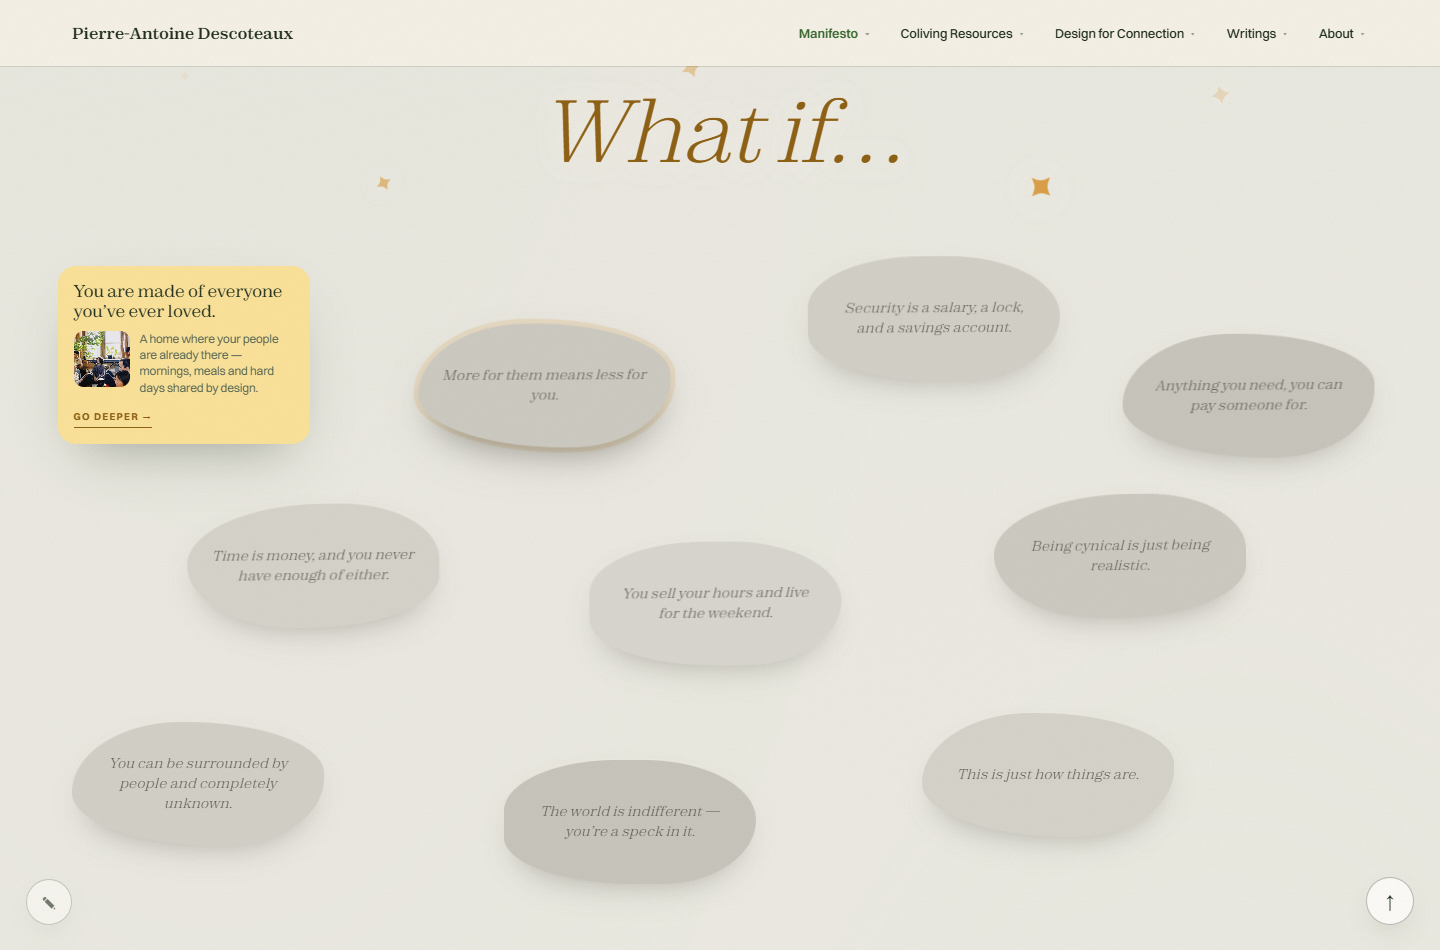
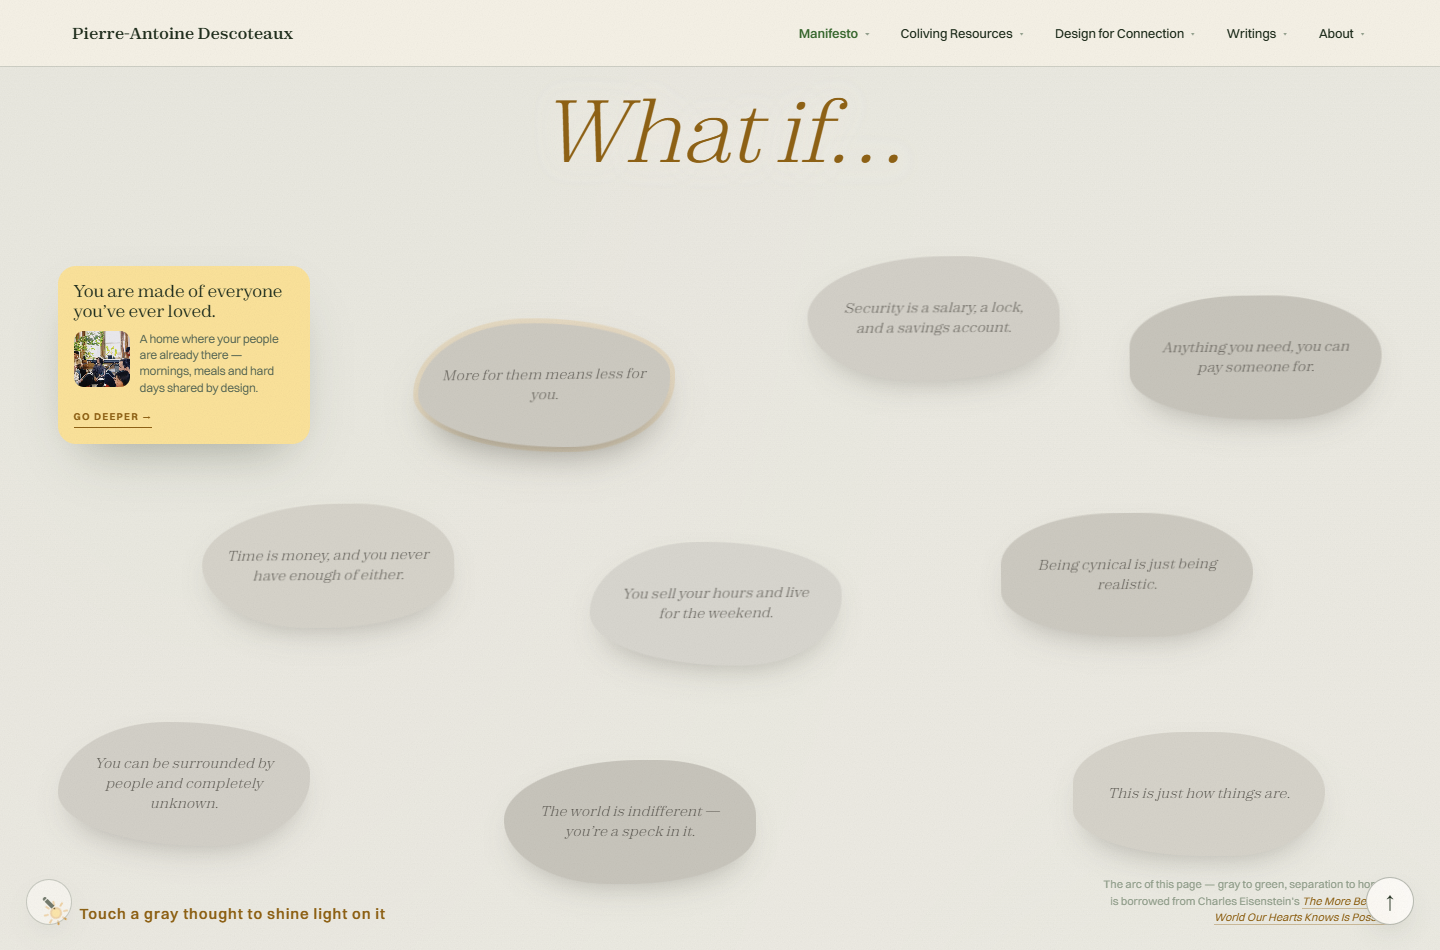
Round 25: field polish + laptop resize fixes
- gray thoughts: hover = shudder + slight brighten/gold glow (preview of the pop)
- heading-to-bubbles gap killed: What if is height:0 sticky (no reserved space), field top padding reduced -> heading + thoughts fit one screen
- What if now appears the moment the section heading scrolls away (.show, driven by heading rect), not on first pop
- pinned stage overlays: bigger prompt Touch a gray thought to shine light on it w/ spinning sun icon (bottom-left) + Eisenstein inspiration note w/ link (bottom-right); both ride the stage until the village section
- symmetric side padding: right-column spots positioned from the RIGHT edge (xr) -> equal outer margins on any width (verified 55/55 laptop, 58/58 desktop)
- laptop viewports (max-height 880): stage-wide size reductions so nothing stacks -> 0 overlaps gray AND open state at 1366x768 + 1440x950 (was the resize complaint); manifesto hero capped 62vh
- QA: diag-r25-laptop.js (overlap counter + padding symmetry) + full r24 regression green, 0 JS errors

Claude-Session: https://claude.ai/code/session_01Kgzbg39vN6twBKM8cWNnML

diff --git a/manifesto.html b/manifesto.html
@@ -50,11 +50,11 @@ a{color:inherit;text-decoration:none}
 .hero h1 em{font-style:italic;color:var(--gold-deep)}
 .hero .lede{font-size:clamp(1.05rem,1.4vw,1.25rem);color:var(--ink-soft);max-width:52ch;margin-bottom:clamp(30px,5vh,54px)}
 .hero .img{border-radius:var(--r);overflow:hidden;box-shadow:0 40px 90px -45px rgba(23,58,44,.55)}
-.hero .img img{width:100%;aspect-ratio:16/8;object-fit:cover}
+.hero .img img{width:100%;aspect-ratio:16/8;object-fit:cover;max-height:62vh}
 .hero .credit{margin-top:10px;font-size:.62rem;letter-spacing:.12em;text-transform:uppercase;color:var(--ink-faint)}
 
 /* ---------- GRAY FIELD ---------- */
-.field{position:relative;padding:clamp(60px,9vh,110px) 0 40px;--p:0}
+.field{position:relative;padding:clamp(26px,4vh,46px) 0 40px;--p:0}
 .field::before{content:"";position:absolute;inset:0;pointer-events:none;
   background:linear-gradient(180deg,#e8e6df 0%,#eceae2 55%,var(--paper) 100%);z-index:-2}
 .field::after{content:"";position:absolute;inset:0;pointer-events:none;z-index:-1;opacity:var(--p);transition:opacity 1.2s ease;
@@ -69,19 +69,32 @@ a{color:inherit;text-decoration:none}
 .field.lit .head .eyebrow{color:var(--green-deep)}
 .field.lit h2.status{color:var(--ink-faint);opacity:.55;font-size:clamp(1.2rem,2.4vw,1.9rem)}
 .field.lit .head .lede{color:var(--ink-soft)}
-.field .hint{margin-top:14px;font-size:.75rem;letter-spacing:.18em;text-transform:uppercase;color:#a09d94;transition:opacity .8s}
-.field.lit .hint{opacity:0}
+/* pinned stage overlays: the prompt (bottom-left) + the inspiration note
+   (bottom-right) ride with the stage until the village section */
+.stageprompt{position:absolute;left:clamp(16px,3vw,44px);bottom:clamp(14px,2.5vh,30px);z-index:20;
+  display:flex;align-items:center;gap:10px;font-size:clamp(.85rem,1.05vw,1rem);font-weight:600;
+  letter-spacing:.06em;color:var(--gold-deep);pointer-events:none}
+.stageprompt svg{flex:0 0 26px;animation:sunspin 14s linear infinite}
+@keyframes sunspin{to{transform:rotate(360deg)}}
+.stagenote{position:absolute;right:clamp(16px,3vw,44px);bottom:clamp(14px,2.5vh,30px);z-index:20;
+  max-width:min(300px,30vw);font-size:.7rem;line-height:1.5;color:var(--ink-faint);text-align:right}
+.stagenote a{color:var(--gold-deep);border-bottom:1px solid rgba(143,98,21,.35)}
+.stagenote a:hover{color:var(--ink)}
+@media(max-width:900px){.stageprompt,.stagenote{display:none}}
 
-/* spark title — STICKY: follows the reader through the whole gray field */
+/* spark title — STICKY, and HEIGHT 0 so it reserves no gap between the
+   section heading and the thoughts. Appears the moment the heading
+   scrolls away (.show), not on first pop. */
 .whatif{position:sticky;top:86px;z-index:15;pointer-events:none;display:block;text-align:center;
+  height:0;overflow:visible;
   font-family:var(--serif);font-style:italic;font-weight:300;
   font-size:clamp(2.6rem,6.5vw,5.5rem);line-height:1;color:var(--gold-deep);letter-spacing:-.02em;
-  margin:clamp(12px,2.5vh,26px) auto 0;opacity:0;transform:translateY(14px) scale(.94);
+  margin:0 auto;opacity:0;transform:translateY(14px) scale(.94);
   transition:opacity .9s cubic-bezier(.34,1.56,.64,1),transform .9s cubic-bezier(.34,1.56,.64,1);
   text-shadow:0 2px 30px rgba(246,242,231,.9)}
-.field.lit .whatif{opacity:1;transform:none}
+.field.show .whatif{opacity:1;transform:none}
 .whatif .star{position:absolute;font-style:normal;color:var(--gold);opacity:0;pointer-events:none;font-size:.35em}
-.field.lit .whatif .star{animation:spark 1.4s ease forwards}
+.field.show .whatif .star{animation:spark 1.4s ease forwards}
 .whatif .star:nth-child(1){left:12%;top:-30%;animation-delay:.15s!important}
 .whatif .star:nth-child(2){right:14%;top:-16%;font-size:.5em;animation-delay:.3s!important}
 .whatif .star:nth-child(3){left:26%;bottom:-24%;font-size:.28em;animation-delay:.5s!important}
@@ -125,7 +138,9 @@ a{color:inherit;text-decoration:none}
   background:var(--gtone);box-shadow:0 14px 34px -18px rgba(60,58,50,.4);
   animation:drift var(--dur) ease-in-out var(--del) infinite alternate;
   transition:transform .3s,box-shadow .3s}
-.bub .gray:hover{transform:scale(1.04);box-shadow:0 20px 44px -18px rgba(60,58,50,.5);animation-play-state:paused}
+/* hover = a preview of the pop: it shudders and catches a little light */
+.bub .gray:hover{animation:shudder .5s ease-in-out infinite;filter:brightness(1.06);
+  box-shadow:0 20px 44px -18px rgba(60,58,50,.5),0 0 0 6px rgba(217,154,61,.16)}
 /* the "I'm next" shudder — intriguing, not violent */
 .bub.shake .gray{animation:shudder .42s ease-in-out infinite;
   box-shadow:0 18px 40px -16px rgba(60,58,50,.55),0 0 0 5px rgba(217,154,61,.18)}
@@ -157,6 +172,21 @@ a{color:inherit;text-decoration:none}
   .bub .cardp{padding:20px}
   .cardp .flip{font-size:1.15rem}
   .cardp .im,.cardp .im img{flex-basis:64px;width:64px;height:64px}
+}
+
+/* laptop screens (short viewports): everything on the stage shrinks so the
+   scatter never stacks — the #1 resize complaint */
+@media(min-width:901px) and (max-height:880px){
+  .bub{width:min(206px,19vw)}
+  .bub .gray{min-height:94px;padding:14px 16px;font-size:.78rem}
+  .bub .cardp{padding:12px 13px 11px}
+  .cardp .flip{font-size:.86rem}
+  .cardp .im,.cardp .im img{flex-basis:42px;width:42px;height:42px}
+  .cardp .vil{font-size:.64rem}
+  .cardp .deep{font-size:.56rem;margin-top:6px}
+  .whatif{font-size:clamp(2rem,4.6vw,3.6rem);top:72px}
+  .stageprompt{font-size:.8rem}
+  .stagenote{font-size:.62rem;max-width:250px}
 }
 
 @media(max-width:900px){
@@ -279,7 +309,6 @@ a{color:inherit;text-decoration:none}
     <span class="eyebrow" id="fKicker"></span>
     <h2 class="status" id="fTitle"></h2>
     <p class="lede" id="fLede"></p>
-    <div class="hint">✳ touch a gray thought</div>
   </div>
 
   <h2 class="whatif" id="whatif" aria-hidden="true"><span class="star">✦</span><span class="star">✦</span><span class="star">✦</span><span class="star">✦</span><span class="star">✦</span><span id="whatifTxt"></span></h2>
@@ -287,6 +316,14 @@ a{color:inherit;text-decoration:none}
   <div class="fieldbed" id="fieldbed">
     <div class="fieldpin" id="fieldpin">
       <svg class="bvinesvg" id="bvine" aria-hidden="true"></svg>
+      <div class="stageprompt" aria-hidden="true">
+        <svg viewBox="0 0 26 26" width="26" height="26" fill="none" stroke="#d99a3d" stroke-width="1.8" stroke-linecap="round">
+          <circle cx="13" cy="13" r="5" fill="#f7c948" stroke="#d99a3d"/>
+          <path d="M13 1.5v3.2M13 21.3v3.2M1.5 13h3.2M21.3 13h3.2M4.9 4.9l2.2 2.2M18.9 18.9l2.2 2.2M21.1 4.9l-2.2 2.2M7.1 18.9l-2.2 2.2"/>
+        </svg>
+        <span>Touch a gray thought to shine light on it</span>
+      </div>
+      <div class="stagenote">The arc of this page — gray to green, separation to hope — is borrowed from Charles Eisenstein's <a href="separation.html"><em>The More Beautiful World Our Hearts Knows Is Possible</em></a>.</div>
     </div>
   </div>
 </section>
@@ -422,19 +459,21 @@ var field=document.getElementById("field");
    data), with vertical spacing DOUBLED so a held thought and the next
    arrival never crowd each other. The relay pin happens in dockPops().
    Mobile: static alternating column (CSS). */
-/* stage scatter — randomized-looking spread over the full stage, padded
-   at the edges and clear of the What if zone (top ~25%) */
+/* stage scatter — randomized-looking spread over the full stage, clear of
+   the What if zone (top ~25%). Right-column spots use `xr` (distance from
+   the RIGHT edge) so the outermost padding is symmetric on any screen. */
 var SPOTS=[
-  {x:4,y:28},{x:29,y:34},{x:56,y:27},{x:78,y:35},
-  {x:13,y:53},{x:41,y:57},{x:69,y:52},
-  {x:5,y:76},{x:35,y:80},{x:64,y:75}
+  {x:4,y:28},{x:29,y:34},{x:56,y:27},{xr:4,y:31},
+  {x:14,y:53},{x:41,y:57},{xr:13,y:54},
+  {x:4,y:76},{x:35,y:80},{xr:8,y:77}
 ];
 pin.insertAdjacentHTML("beforeend",MANIFESTO.stories.map(function(s,i){
   var t=TONES[s.tone%TONES.length];
   var dx=(i%2?-1:1)*(6+(i%3)*3), dy=(i%3?-1:1)*(5+(i%2)*4);
   var sp=SPOTS[i]||{x:10,y:50};
+  var pos=(sp.xr!=null)?('left:auto;right:'+sp.xr+'%;--x:0'):('--x:'+sp.x);
   return '<div class="bband">'+
-    '<div class="bub" id="bub-'+esc(s.slug)+'" style="--gtone:'+t[0]+';--ctone:'+t[1]+';--acc:'+t[2]+';--dur:'+(9+i%5*1.7)+'s;--del:'+(i*0.7)+'s;--dx:'+dx+'px;--dy:'+dy+'px;--x:'+sp.x+';--y:'+sp.y+';--i:'+i+'">'+
+    '<div class="bub" id="bub-'+esc(s.slug)+'" style="'+pos+';--gtone:'+t[0]+';--ctone:'+t[1]+';--acc:'+t[2]+';--dur:'+(9+i%5*1.7)+'s;--del:'+(i*0.7)+'s;--dx:'+dx+'px;--dy:'+dy+'px;--y:'+sp.y+';--i:'+i+'">'+
     '<button class="gray" type="button" aria-expanded="false">'+esc(s.gray)+'</button>'+
     '<div class="cardp">'+
       '<div class="flip">'+esc(s.flip)+'</div>'+
@@ -505,6 +544,9 @@ bubs.forEach(function(bub){
    un-popped-by-hand thoughts (data-manual) are left alone. */
 var isDesk=window.matchMedia("(min-width:901px)");
 function dockPops(){
+  /* the What if takes over the instant the section heading scrolls away */
+  var headR=field.querySelector(".head").getBoundingClientRect();
+  field.classList.toggle("show",headR.bottom<=70);
   if(isDesk.matches){
     var bedR=bed.getBoundingClientRect(), vh=window.innerHeight;
     var p=Math.min(1,Math.max(0,(-bedR.top)/(bedR.height-vh)));

diff --git a/_qa/diag-r25-laptop.js b/_qa/diag-r25-laptop.js
@@ -1,0 +1,61 @@
+/* R25 diag: laptop viewport (1366x768) — no stacked bubbles, overlays pinned,
+   whatif appears when heading leaves, symmetric side padding. */
+const { chromium } = require("playwright-core");
+const path = require("path");
+const root = "file:///C:/Users/User/coliving-portfolio/";
+
+(async () => {
+  const browser = await chromium.launch({ executablePath: "C:\\Program Files\\Google\\Chrome\\Application\\chrome.exe", headless: true });
+
+  for (const vp of [{ w: 1366, h: 768, tag: "laptop" }, { w: 1440, h: 950, tag: "desk" }]) {
+    const page = await browser.newPage({ viewport: { width: vp.w, height: vp.h } });
+    const errors = [];
+    page.on("pageerror", e => errors.push(e.message));
+    await page.goto(root + "manifesto.html", { waitUntil: "networkidle" });
+    await page.waitForTimeout(1200);
+    await page.evaluate(() => {
+      const bed = document.getElementById("fieldbed");
+      window.scrollTo({ top: bed.getBoundingClientRect().top + window.scrollY + 10, behavior: "auto" });
+    });
+    await page.waitForTimeout(900);
+    const arrive = await page.evaluate(() => {
+      const rs = [...document.querySelectorAll(".bub")].map(b => b.getBoundingClientRect());
+      let ov = 0;
+      for (let i = 0; i < rs.length; i++) for (let j = i + 1; j < rs.length; j++) {
+        const a = rs[i], b = rs[j];
+        if (a.left < b.right - 6 && b.left < a.right - 6 && a.top < b.bottom - 6 && b.top < a.bottom - 6) ov++;
+      }
+      const padL = Math.min(...rs.map(r => r.left));
+      const padR = Math.min(...rs.map(r => window.innerWidth - r.right));
+      return {
+        overlapsGray: ov, padL: Math.round(padL), padR: Math.round(padR),
+        show: document.getElementById("field").classList.contains("show"),
+        prompt: !!document.querySelector(".stageprompt"),
+        note: !!document.querySelector(".stagenote"),
+        whatifVisible: getComputedStyle(document.getElementById("whatif")).opacity,
+      };
+    });
+    // scroll to end -> all popped, check card overlaps
+    const bedInfo = await page.evaluate(() => { const r = document.getElementById("fieldbed").getBoundingClientRect(); return { top: r.top + window.scrollY, h: r.height, vh: window.innerHeight }; });
+    await page.evaluate(({ top, h, vh }) => window.scrollTo({ top: top + (h - vh) * 0.999, behavior: "auto" }), bedInfo);
+    await page.waitForTimeout(1500);
+    const end = await page.evaluate(() => {
+      const rs = [...document.querySelectorAll(".bub")].map(b => b.getBoundingClientRect());
+      let ov = 0;
+      for (let i = 0; i < rs.length; i++) for (let j = i + 1; j < rs.length; j++) {
+        const a = rs[i], b = rs[j];
+        if (a.left < b.right - 6 && b.left < a.right - 6 && a.top < b.bottom - 6 && b.top < a.bottom - 6) ov++;
+      }
+      return { popped: document.querySelectorAll(".bub.pop").length, overlapsCards: ov };
+    });
+    await page.screenshot({ path: path.join(__dirname, "r25-" + vp.tag + "-end.png") });
+    console.log(vp.tag + " ARRIVE:", JSON.stringify(arrive), "END:", JSON.stringify(end), errors.length ? "ERRORS: " + errors.join("|") : "no errors");
+    if (vp.tag === "laptop") {
+      await page.evaluate(({ top, h, vh }) => window.scrollTo({ top: top + 10, behavior: "auto" }), bedInfo);
+      await page.waitForTimeout(800);
+      await page.screenshot({ path: path.join(__dirname, "r25-laptop-arrival.png") });
+    }
+    await page.close();
+  }
+  await browser.close();
+})();
